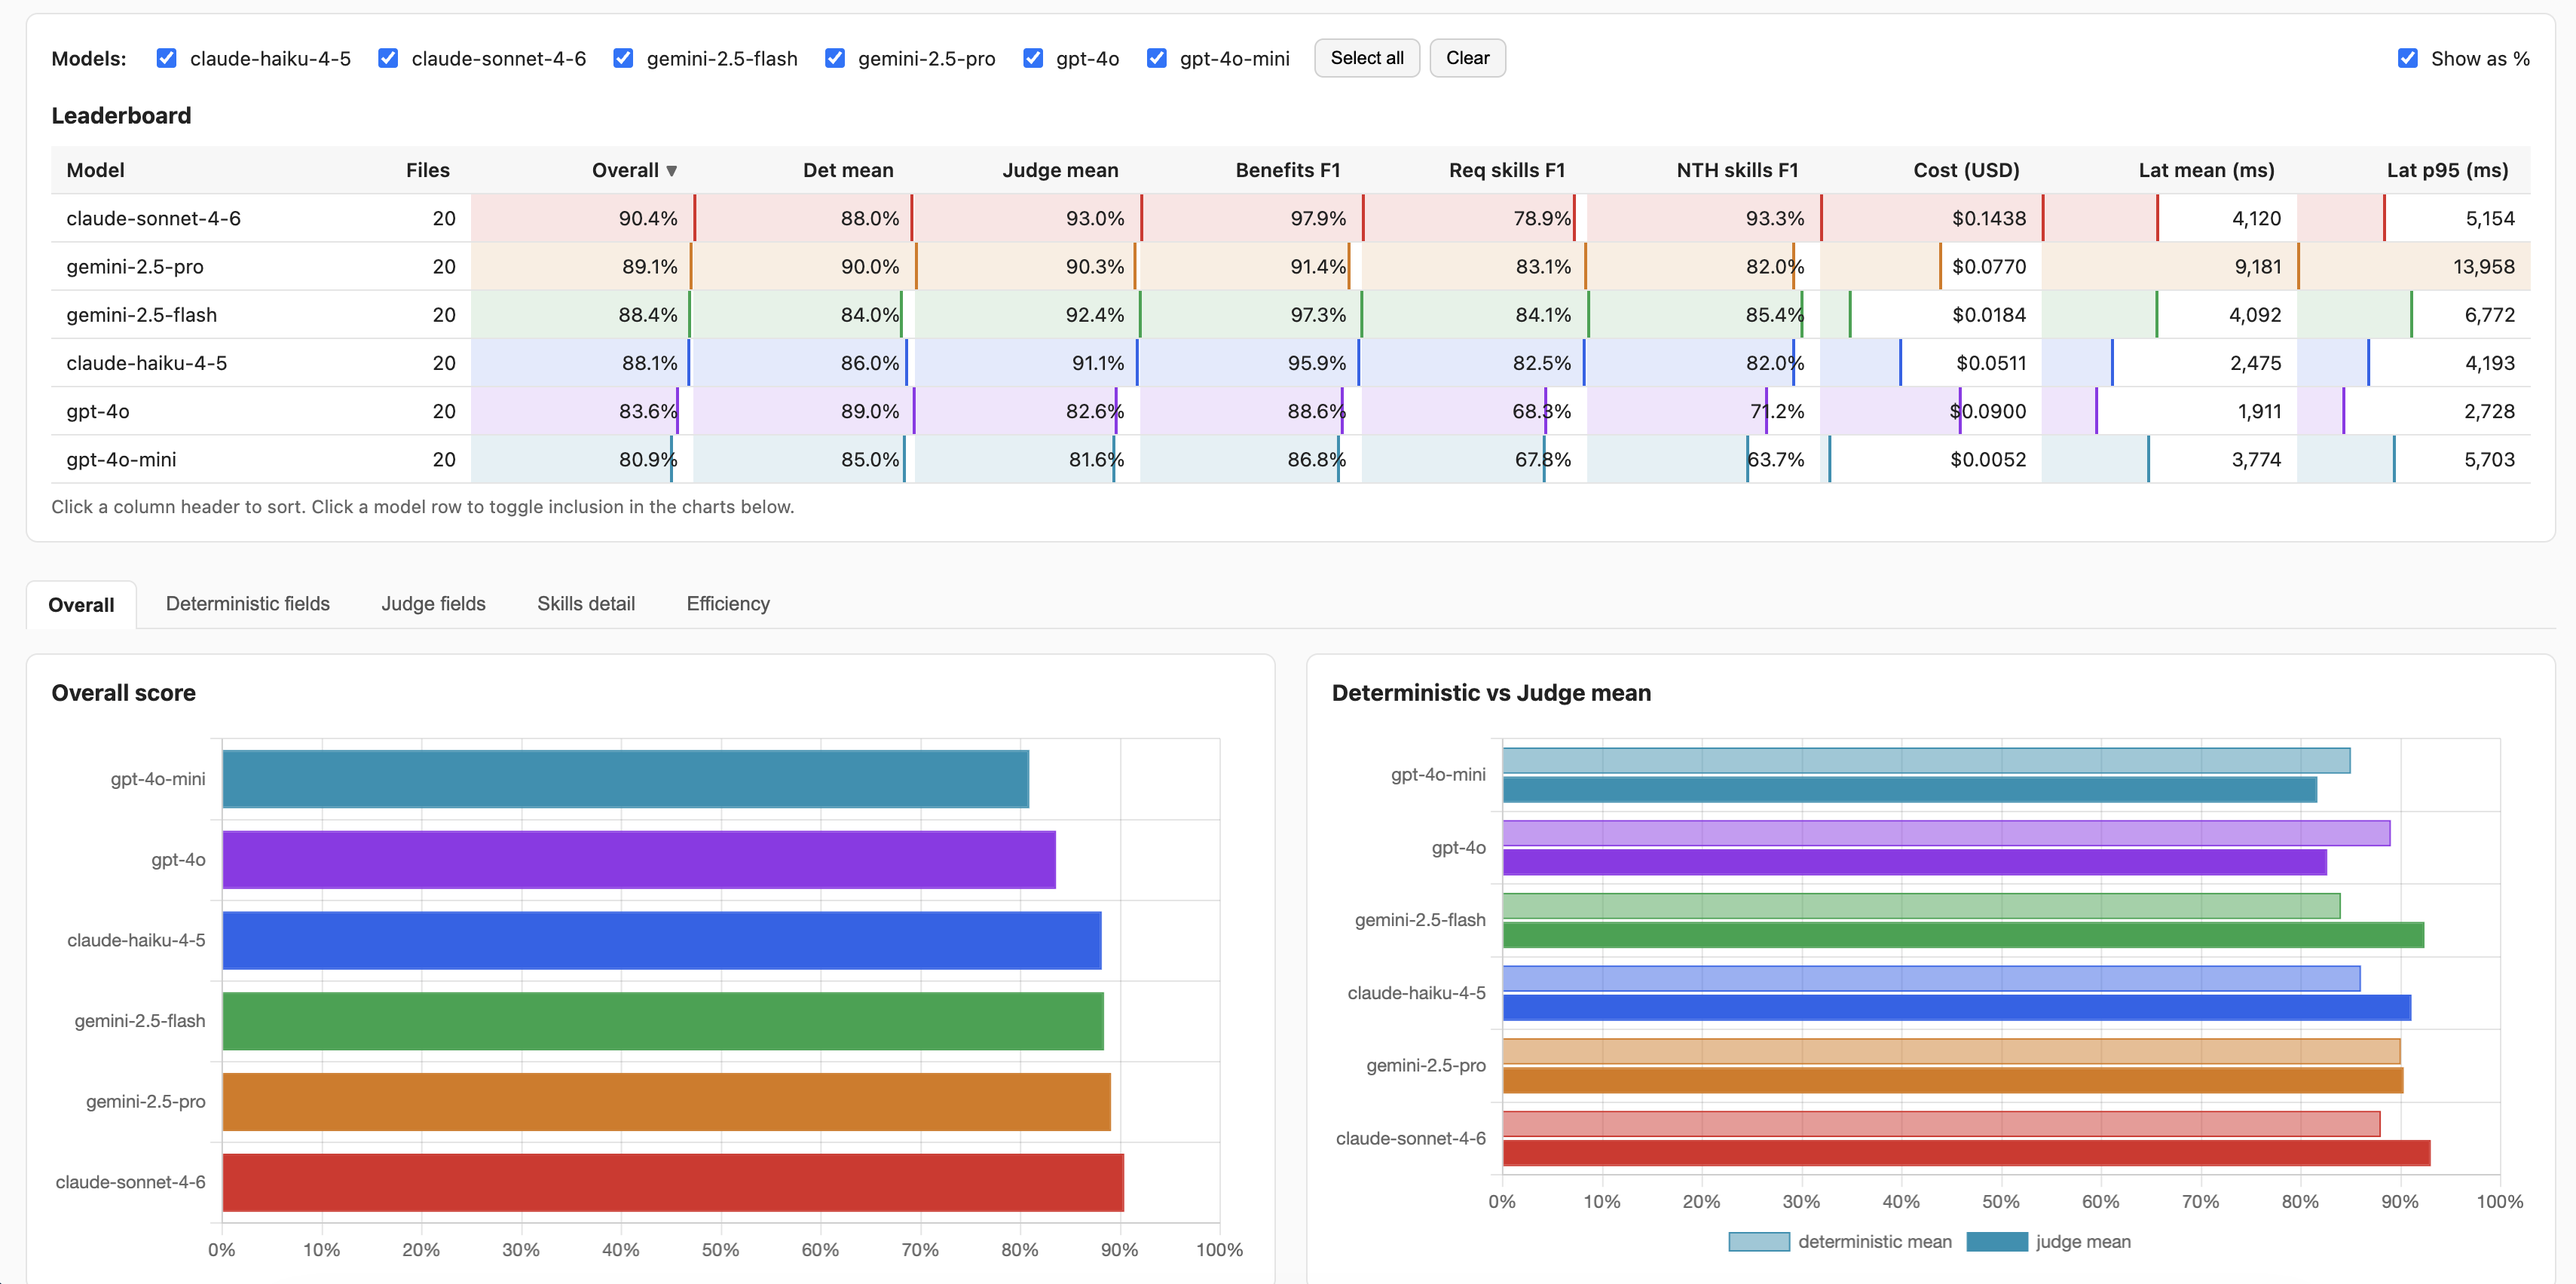
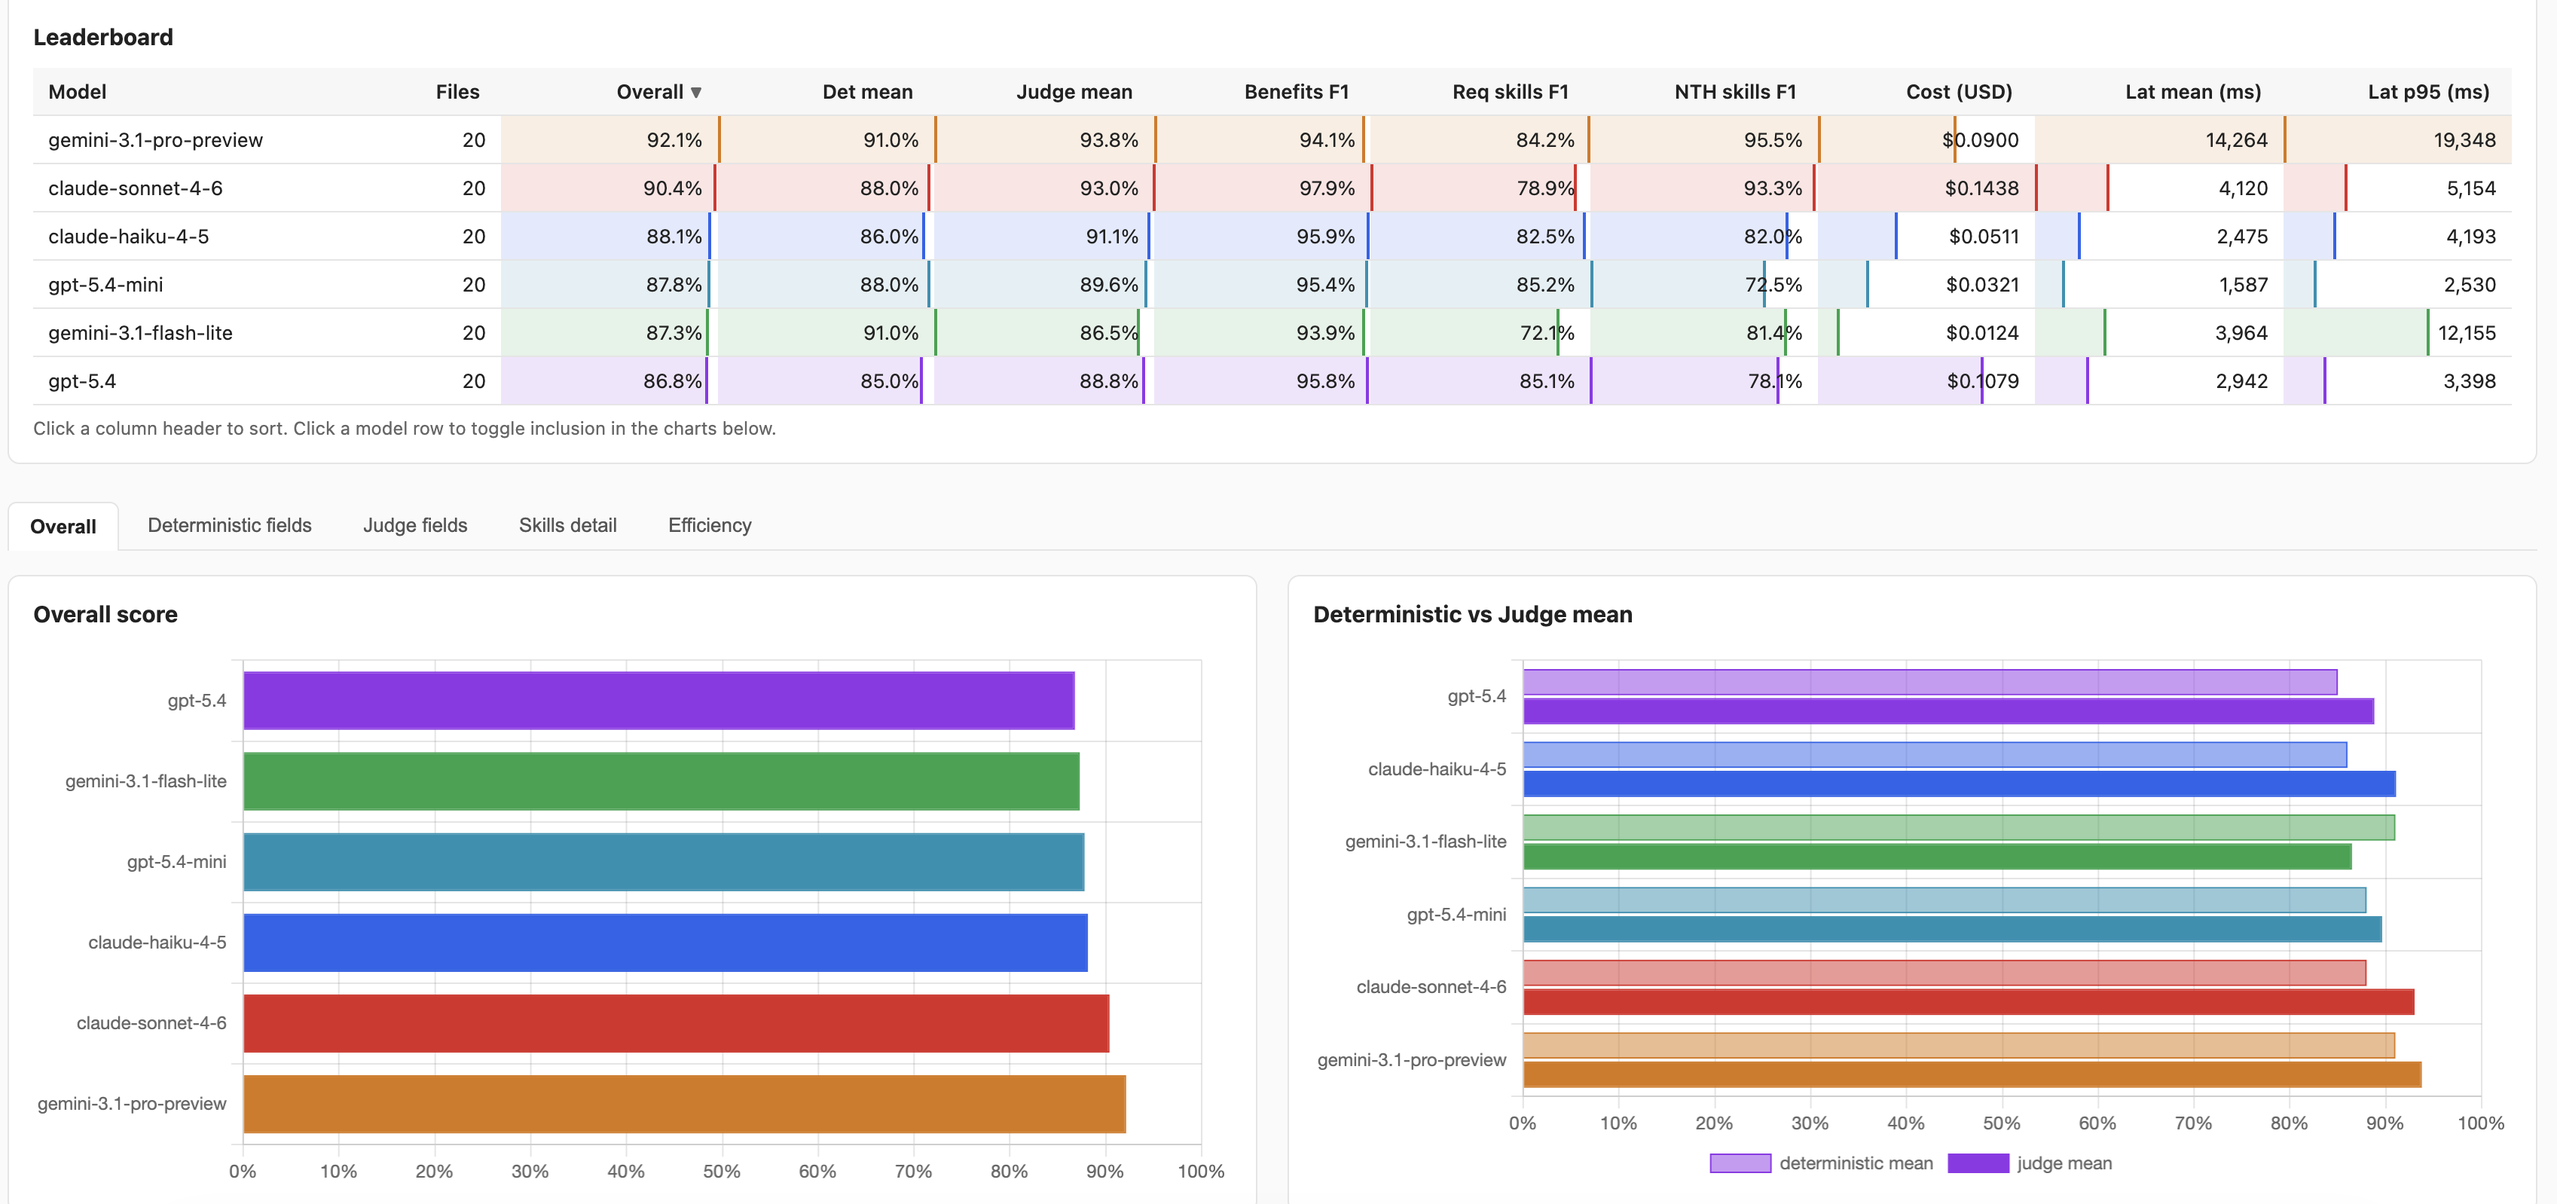
Updated models to run benchmark against.

diff --git a/src/config.ts b/src/config.ts
@@ -1,5 +1,11 @@
 import { PRICING } from './pricing';
 
+// Provider-native reasoning effort levels.
+// Gemini 3.x: thinkingConfig.thinkingLevel ('low' | 'high', etc.)
+// OpenAI GPT-5.x / o-series: reasoning_effort ('low' | 'medium' | 'high', etc.)
+export type ThinkingLevel = 'low' | 'medium' | 'high';
+export type ReasoningEffort = 'low' | 'medium' | 'high' | 'xhigh';
+
 export type ModelConfig = {
   slug: string;
   model: string;
@@ -7,6 +13,10 @@ export type ModelConfig = {
   highEffort: boolean;
   thinkingEnabled: boolean;
   thinkingBudget?: number;
+  // Gemini 3.x uses thinkingLevel instead of a token budget.
+  thinkingLevel?: ThinkingLevel;
+  // OpenAI reasoning models use reasoning_effort.
+  reasoningEffort?: ReasoningEffort;
 };
 
 export const MODEL_CONFIGS: Record<string, ModelConfig> = {
@@ -32,48 +42,49 @@ export const MODEL_CONFIGS: Record<string, ModelConfig> = {
     thinkingEnabled: true,
     thinkingBudget: 10000,
   },
-  'gpt4o-mini': {
-    slug: 'gpt-4o-mini',
-    model: 'gpt-4o-mini',
+  'gpt5.4-mini': {
+    slug: 'gpt-5.4-mini',
+    model: 'gpt-5.4-mini',
     provider: 'openai',
     highEffort: false,
     thinkingEnabled: false,
   },
-  gpt4o: {
-    slug: 'gpt-4o',
-    model: 'gpt-4o',
+  'gpt5.4': {
+    slug: 'gpt-5.4',
+    model: 'gpt-5.4',
     provider: 'openai',
     highEffort: false,
     thinkingEnabled: false,
   },
-  'o4-mini': {
-    slug: 'o4-mini',
-    model: 'o4-mini',
+  'gpt5.4-thinking': {
+    slug: 'gpt-5.4-thinking',
+    model: 'gpt-5.4',
     provider: 'openai',
     highEffort: true,
     thinkingEnabled: true,
+    reasoningEffort: 'high',
   },
   'gemini-flash': {
-    slug: 'gemini-2.5-flash',
-    model: 'gemini-2.5-flash',
+    slug: 'gemini-3.1-flash-lite',
+    model: 'gemini-3.1-flash-lite',
     provider: 'gemini',
     highEffort: false,
     thinkingEnabled: false,
   },
   'gemini-pro': {
-    slug: 'gemini-2.5-pro',
-    model: 'gemini-2.5-pro',
+    slug: 'gemini-3.1-pro-preview',
+    model: 'gemini-3.1-pro-preview',
     provider: 'gemini',
     highEffort: false,
     thinkingEnabled: false,
   },
   'gemini-pro-thinking': {
-    slug: 'gemini-2.5-pro-thinking',
-    model: 'gemini-2.5-pro',
+    slug: 'gemini-3.1-pro-preview-thinking',
+    model: 'gemini-3.1-pro-preview',
     provider: 'gemini',
     highEffort: true,
     thinkingEnabled: true,
-    thinkingBudget: 8192,
+    thinkingLevel: 'high',
   },
 };
 
@@ -81,8 +92,37 @@ export function getOutputDir(config: ModelConfig): string {
   return config.highEffort ? `${config.slug}_high_effort` : config.slug;
 }
 
-export function calculateCost(config: ModelConfig, inputTokens: number, outputTokens: number): number {
+// Resolve a model filter to its output-directory slug. The filter may be a
+// config key (e.g. "haiku", "gemini-pro-thinking") matching the run:* scripts,
+// or an already-resolved output-dir name (e.g. "claude-haiku-4-5").
+export function resolveOutputDir(keyOrSlug: string): string {
+  const config = MODEL_CONFIGS[keyOrSlug];
+  return config ? getOutputDir(config) : keyOrSlug;
+}
+
+// Models the `serve` UI loads and charts. Each entry may be a config key
+// (e.g. "haiku", "gemini-pro-thinking") or a raw output-dir slug
+// (e.g. "claude-haiku-4-5"). Leave empty to display every scored model.
+// This controls which models the server takes into account, not the on-page
+// filter checkboxes (which only toggle visibility among the loaded models).
+export const SERVE_MODELS: string[] = [
+  'haiku',
+  'sonnet',
+  'gpt5.4-mini',
+  'gpt5.4',
+  'gemini-flash',
+  'gemini-pro',
+];
+
+export function calculateCost(
+  config: ModelConfig,
+  inputTokens: number,
+  outputTokens: number
+): number {
   const pricing = PRICING[config.slug];
   if (!pricing) return 0;
-  return (inputTokens / 1_000_000) * pricing.inputPerMToken + (outputTokens / 1_000_000) * pricing.outputPerMToken;
+  return (
+    (inputTokens / 1_000_000) * pricing.inputPerMToken +
+    (outputTokens / 1_000_000) * pricing.outputPerMToken
+  );
 }

diff --git a/src/eval/runJudge.ts b/src/eval/runJudge.ts
@@ -2,6 +2,7 @@ import 'dotenv/config';
 import { existsSync } from 'fs';
 import { mkdir, readdir, writeFile } from 'fs/promises';
 import path from 'path';
+import { MODEL_CONFIGS, resolveOutputDir } from '../config';
 import { scoreOnePair } from './scoreOne';
 
 const ROOT = process.cwd();
@@ -10,12 +11,18 @@ const INPUT_DIR = path.join(ROOT, 'input');
 const GROUND_TRUTH_DIR = path.join(ROOT, 'ground_truth');
 const SCORES_DIR = path.join(ROOT, 'eval', 'scores');
 
+// A model filter can be given either as a config key (e.g. "haiku",
+// "gemini-pro-thinking") matching the run:* scripts, or as a raw output
+// directory name (e.g. "claude-haiku-4-5"). Config keys are resolved to their
+// output directory via resolveOutputDir so the judge scopes to exactly that
+// model's files.
 async function listSlugs(filter: string[]): Promise<string[]> {
   if (!existsSync(OUTPUT_DIR)) return [];
   const entries = await readdir(OUTPUT_DIR, { withFileTypes: true });
   const all = entries.filter((e) => e.isDirectory()).map((e) => e.name);
   if (filter.length === 0) return all;
-  return all.filter((s) => filter.includes(s));
+  const wanted = new Set(filter.map(resolveOutputDir));
+  return all.filter((s) => wanted.has(s));
 }
 
 async function listScoredFiles(slug: string, fileFilter: string[]): Promise<string[]> {
@@ -53,7 +60,12 @@ async function main(): Promise<void> {
   const slugs = await listSlugs(argSlugs);
 
   if (slugs.length === 0) {
-    console.error('No model output directories found in output/.');
+    if (argSlugs.length > 0) {
+      console.error(`No matching model output found for: ${argSlugs.join(', ')}`);
+      console.error('Available config keys:', Object.keys(MODEL_CONFIGS).join(', '));
+    } else {
+      console.error('No model output directories found in output/.');
+    }
     process.exit(1);
   }
 

diff --git a/src/eval/judge.ts b/src/eval/judge.ts
@@ -2,7 +2,7 @@ import { GoogleGenAI, Type } from '@google/genai';
 import { PRICING } from '../pricing';
 import { JUDGE_SYSTEM_PROMPT, buildJudgeUserMessage } from './prompts';
 
-const JUDGE_MODEL = 'gemini-2.5-pro';
+const JUDGE_MODEL = 'gemini-3.1-pro-preview';
 
 const STRING_FIELD_SCHEMA = {
   type: Type.OBJECT,
@@ -35,7 +35,13 @@ const RESPONSE_SCHEMA = {
     required_skills: LIST_FIELD_SCHEMA,
     nice_to_have_skills: LIST_FIELD_SCHEMA,
   },
-  required: ['location', 'salary_range', 'benefits', 'required_skills', 'nice_to_have_skills'],
+  required: [
+    'location',
+    'salary_range',
+    'benefits',
+    'required_skills',
+    'nice_to_have_skills',
+  ],
 };
 
 export type JudgeStringFieldRaw = { match: boolean; notes: string };
@@ -103,7 +109,8 @@ export async function runJudge(
   const outputTokens = response.usageMetadata?.candidatesTokenCount ?? 0;
   const pricing = PRICING[JUDGE_MODEL];
   const costUsd = pricing
-    ? (inputTokens / 1_000_000) * pricing.inputPerMToken + (outputTokens / 1_000_000) * pricing.outputPerMToken
+    ? (inputTokens / 1_000_000) * pricing.inputPerMToken +
+      (outputTokens / 1_000_000) * pricing.outputPerMToken
     : 0;
 
   return { verdict, costUsd, latencyMs };

diff --git a/src/pricing.ts b/src/pricing.ts
@@ -1,11 +1,19 @@
 // Pricing per 1M tokens (USD). Update these values before running benchmarks.
-export const PRICING: Record<string, { inputPerMToken: number; outputPerMToken: number }> = {
+export const PRICING: Record<
+  string,
+  { inputPerMToken: number; outputPerMToken: number }
+> = {
   'claude-haiku-4-5': { inputPerMToken: 1.0, outputPerMToken: 5.0 },
   'claude-sonnet-4-6': { inputPerMToken: 3.0, outputPerMToken: 15.0 },
   'gpt-4o-mini': { inputPerMToken: 0.15, outputPerMToken: 0.6 },
   'gpt-4o': { inputPerMToken: 2.5, outputPerMToken: 10.0 },
   'o4-mini': { inputPerMToken: 1.1, outputPerMToken: 4.4 },
+  'gpt-5.4-mini': { inputPerMToken: 0.75, outputPerMToken: 4.5 },
+  'gpt-5.4': { inputPerMToken: 2.5, outputPerMToken: 15.0 },
   'gemini-2.5-flash': { inputPerMToken: 0.3, outputPerMToken: 2.5 },
   'gemini-2.5-pro': { inputPerMToken: 1.25, outputPerMToken: 10.0 },
   'gemini-2.5-pro-thinking': { inputPerMToken: 1.25, outputPerMToken: 10.0 },
+  'gemini-3.1-flash-lite': { inputPerMToken: 0.25, outputPerMToken: 1.5 },
+  'gemini-3.1-pro-preview': { inputPerMToken: 2.0, outputPerMToken: 12.0 },
+  'gemini-3.1-pro-preview-thinking': { inputPerMToken: 2.0, outputPerMToken: 12.0 },
 };

diff --git a/src/providers/gemini.ts b/src/providers/gemini.ts
@@ -1,4 +1,4 @@
-import { GoogleGenAI, Type } from '@google/genai';
+import { GoogleGenAI, ThinkingLevel, Type } from '@google/genai';
 import { calculateCost, type ModelConfig } from '../config';
 import { logRawResponse, parseModelJson } from '../parse';
 import { SYSTEM_PROMPT } from '../prompts';
@@ -34,8 +34,18 @@ export async function runGemini(
     responseSchema: RESPONSE_SCHEMA,
   };
 
-  if (config.thinkingEnabled && config.thinkingBudget != null) {
-    generationConfig.thinkingConfig = { thinkingBudget: config.thinkingBudget };
+  if (config.thinkingEnabled) {
+    if (config.thinkingLevel != null) {
+      // Gemini 3.x: control reasoning via thinkingLevel.
+      const levelMap: Record<'low' | 'medium' | 'high', ThinkingLevel> = {
+        low: ThinkingLevel.LOW,
+        medium: ThinkingLevel.MEDIUM,
+        high: ThinkingLevel.HIGH,
+      };
+      generationConfig.thinkingConfig = { thinkingLevel: levelMap[config.thinkingLevel] };
+    } else if (config.thinkingBudget != null) {
+      generationConfig.thinkingConfig = { thinkingBudget: config.thinkingBudget };
+    }
   }
 
   const start = Date.now();

diff --git a/src/eval/runReport.ts b/src/eval/runReport.ts
@@ -3,6 +3,7 @@ import { existsSync } from 'fs';
 import { readdir, readFile, writeFile } from 'fs/promises';
 import path from 'path';
 import { fileURLToPath } from 'url';
+import { resolveOutputDir } from '../config';
 import type { RunResult } from '../types';
 import type { ModelSummary, PairScore } from './types';
 
@@ -107,10 +108,14 @@ function summarize(slug: string, scores: PairScore[], extraction: { costTotal: n
   };
 }
 
-export async function loadSummaries(): Promise<ModelSummary[]> {
+export async function loadSummaries(modelFilter: string[] = []): Promise<ModelSummary[]> {
   if (!existsSync(SCORES_DIR)) return [];
   const slugEntries = await readdir(SCORES_DIR, { withFileTypes: true });
-  const slugs = slugEntries.filter((e) => e.isDirectory()).map((e) => e.name);
+  let slugs = slugEntries.filter((e) => e.isDirectory()).map((e) => e.name);
+  if (modelFilter.length > 0) {
+    const wanted = new Set(modelFilter.map(resolveOutputDir));
+    slugs = slugs.filter((s) => wanted.has(s));
+  }
 
   const summaries: ModelSummary[] = [];
   for (const slug of slugs) {

diff --git a/src/providers/openai.ts b/src/providers/openai.ts
@@ -14,18 +14,19 @@ export async function runOpenAI(
   let response: OpenAI.Chat.ChatCompletion;
 
   if (config.thinkingEnabled) {
-    // o4-mini: reasoning model — no system role, use max_completion_tokens
+    // Reasoning model: no system role, use max_completion_tokens and reasoning_effort.
     response = await client.chat.completions.create({
       model: config.model,
       response_format: { type: 'json_object' },
       max_completion_tokens: 8000,
+      ...(config.reasoningEffort ? { reasoning_effort: config.reasoningEffort } : {}),
       messages: [{ role: 'user', content: `${SYSTEM_PROMPT}\n\n${jobText}` }],
     });
   } else {
     response = await client.chat.completions.create({
       model: config.model,
       response_format: { type: 'json_object' },
-      max_tokens: 4096,
+      max_completion_tokens: 4096,
       messages: [
         { role: 'system', content: SYSTEM_PROMPT },
         { role: 'user', content: jobText },

diff --git a/src/server.ts b/src/server.ts
@@ -1,4 +1,5 @@
 import { createServer } from "node:http";
+import { SERVE_MODELS } from "./config";
 import { loadSummaries } from "./eval/runReport";
 
 const PORT = Number(process.env.PORT) || 3000;
@@ -533,7 +534,7 @@ const server = createServer(async (req, res) => {
       return;
     }
     if (req.url === "/api/summaries") {
-      const summaries = await loadSummaries();
+      const summaries = await loadSummaries(SERVE_MODELS);
       res.writeHead(200, { "Content-Type": "application/json" });
       res.end(JSON.stringify(summaries));
       return;

diff --git a/README.md b/README.md
@@ -28,14 +28,14 @@ The task is structured data extraction from unstructured text. Every model recei
 | `haiku`               | claude-haiku-4-5-20251001 | Anthropic | standard                                     |
 | `sonnet`              | claude-sonnet-4-6         | Anthropic | standard                                     |
 | `sonnet-thinking`     | claude-sonnet-4-6         | Anthropic | extended thinking (high-effort, 3 files max) |
-| `gpt4o-mini`          | gpt-4o-mini               | OpenAI    | standard                                     |
-| `gpt4o`               | gpt-4o                    | OpenAI    | standard                                     |
-| `o4-mini`             | o4-mini                   | OpenAI    | reasoning (high-effort, 3 files max)         |
-| `gemini-flash`        | gemini-2.5-flash          | Gemini    | standard                                     |
-| `gemini-pro`          | gemini-2.5-pro            | Gemini    | standard                                     |
-| `gemini-pro-thinking` | gemini-2.5-pro            | Gemini    | thinking (high-effort, 3 files max)          |
+| `gpt5.4-mini`         | gpt-5.4-mini              | OpenAI    | standard                                     |
+| `gpt5.4`              | gpt-5.4                   | OpenAI    | standard                                     |
+| `gpt5.4-thinking`     | gpt-5.4                   | OpenAI    | reasoning (high-effort, 3 files max)         |
+| `gemini-flash`        | gemini-3.1-flash-lite     | Gemini    | standard                                     |
+| `gemini-pro`          | gemini-3.1-pro-preview    | Gemini    | standard                                     |
+| `gemini-pro-thinking` | gemini-3.1-pro-preview    | Gemini    | thinking (high-effort, 3 files max)          |
 
-**High-effort configs** (`sonnet-thinking`, `o4-mini`, `gemini-pro-thinking`) are expensive and require you to pass exactly 3 input filenames explicitly, so you can control cost.
+**High-effort configs** (`sonnet-thinking`, `gpt5.4-thinking`, `gemini-pro-thinking`) are expensive and require you to pass exactly 3 input filenames explicitly, so you can control cost. `gpt5.4-thinking` runs GPT-5.4 with `reasoning_effort: high`; `gemini-pro-thinking` runs Gemini 3.1 Pro with `thinkingLevel: high`.
 
 ## Prerequisites
 
@@ -75,8 +75,8 @@ Standard configs process all `.txt` files in `input/` automatically:
 ```bash
 npm run run:haiku
 npm run run:sonnet
-npm run run:gpt4o-mini
-npm run run:gpt4o
+npm run run:gpt5.4-mini
+npm run run:gpt5.4
 npm run run:gemini-flash
 npm run run:gemini-pro
 ```
@@ -85,7 +85,7 @@ High-effort configs require exactly 3 filenames to keep costs predictable:
 
 ```bash
 npm run run:sonnet:thinking -- jp1.txt jp5.txt jp12.txt
-npm run run:o4-mini -- jp1.txt jp5.txt jp12.txt
+npm run run:gpt5.4-thinking -- jp1.txt jp5.txt jp12.txt
 npm run run:gemini-pro-thinking -- jp1.txt jp5.txt jp12.txt
 ```
 
